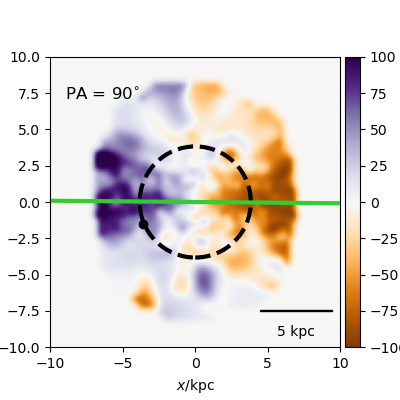
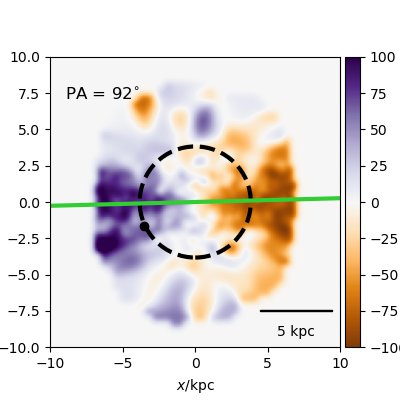
gas and stellar velocity

Changed region(s): [[0.12, 0.18, 0.87, 0.84]]

diff --git a/r320/galaxy320_StelVelR.py b/r320/galaxy320_StelVelR.py
@@ -11,11 +11,7 @@ filename = '/mnt/data0/jillian/gguaman/r320/r320.007779.tipsy'
 redshift=0.01
 image_width=20
 
-stellar_map, stellar_pa, ax = plot_manga_map(filename, redshift, "star", weights="mass", image_width=image_width, orientation="sideon", cmap='PuOr', vmin=-50, vmax=50)
-#stellar_pa = calc_pa(stellar_map)
-#plt.colorbar(ax.images[0])
-#plt.xlabel('x/kpc')
-#plt.ylabel('y/kpc')
+stellar_map, stellar_pa, ax = plot_manga_map(filename, redshift, "star", weights="mass", image_width=image_width, orientation="sideon", cmap='PuOr', vmin=-70, vmax=70)
 
 #plt.show()
 plt.savefig("galaxy320_StelVelR.png")

diff --git a/r320/galaxy320_GasVelR.py b/r320/galaxy320_GasVelR.py
@@ -14,11 +14,7 @@ image_width=20
 def rho_sq(particles):
     return particles['rho']**2
 
-gas_map, gas_pa, ax = plot_manga_map(filename, redshift, "gas", weights=rho_sq,image_width=image_width, orientation="sideon", cmap='RdBu',vmin=-100, vmax=100)
-#gas_pa = calc_pa(gas_map)
-#plt.colorbar(ax.images[0])
-#plt.xlabel('x/kpc')
-#plt.ylabel('y/kpc')
+gas_map, gas_pa, ax = plot_manga_map(filename, redshift, "gas", weights=rho_sq,image_width=image_width, orientation="sideon", cmap='RdBu',vmin=-125, vmax=125)
 
 #plt.show()
 plt.savefig("galaxy320_GasVelR.png")

diff --git a/r154/galaxy154_StelVelGG.py b/r154/galaxy154_StelVelGG.py
@@ -39,5 +39,5 @@ for i in range(len(BH)):
     BHz=BHposition[[i],2]
     plt.plot(BHx,BHy, 'ro')
 
-plt.show()
-#plt.savefig("galaxy154_StelVelGG.png")
+#plt.show()
+plt.savefig("galaxy154_StelVelGG.png")
